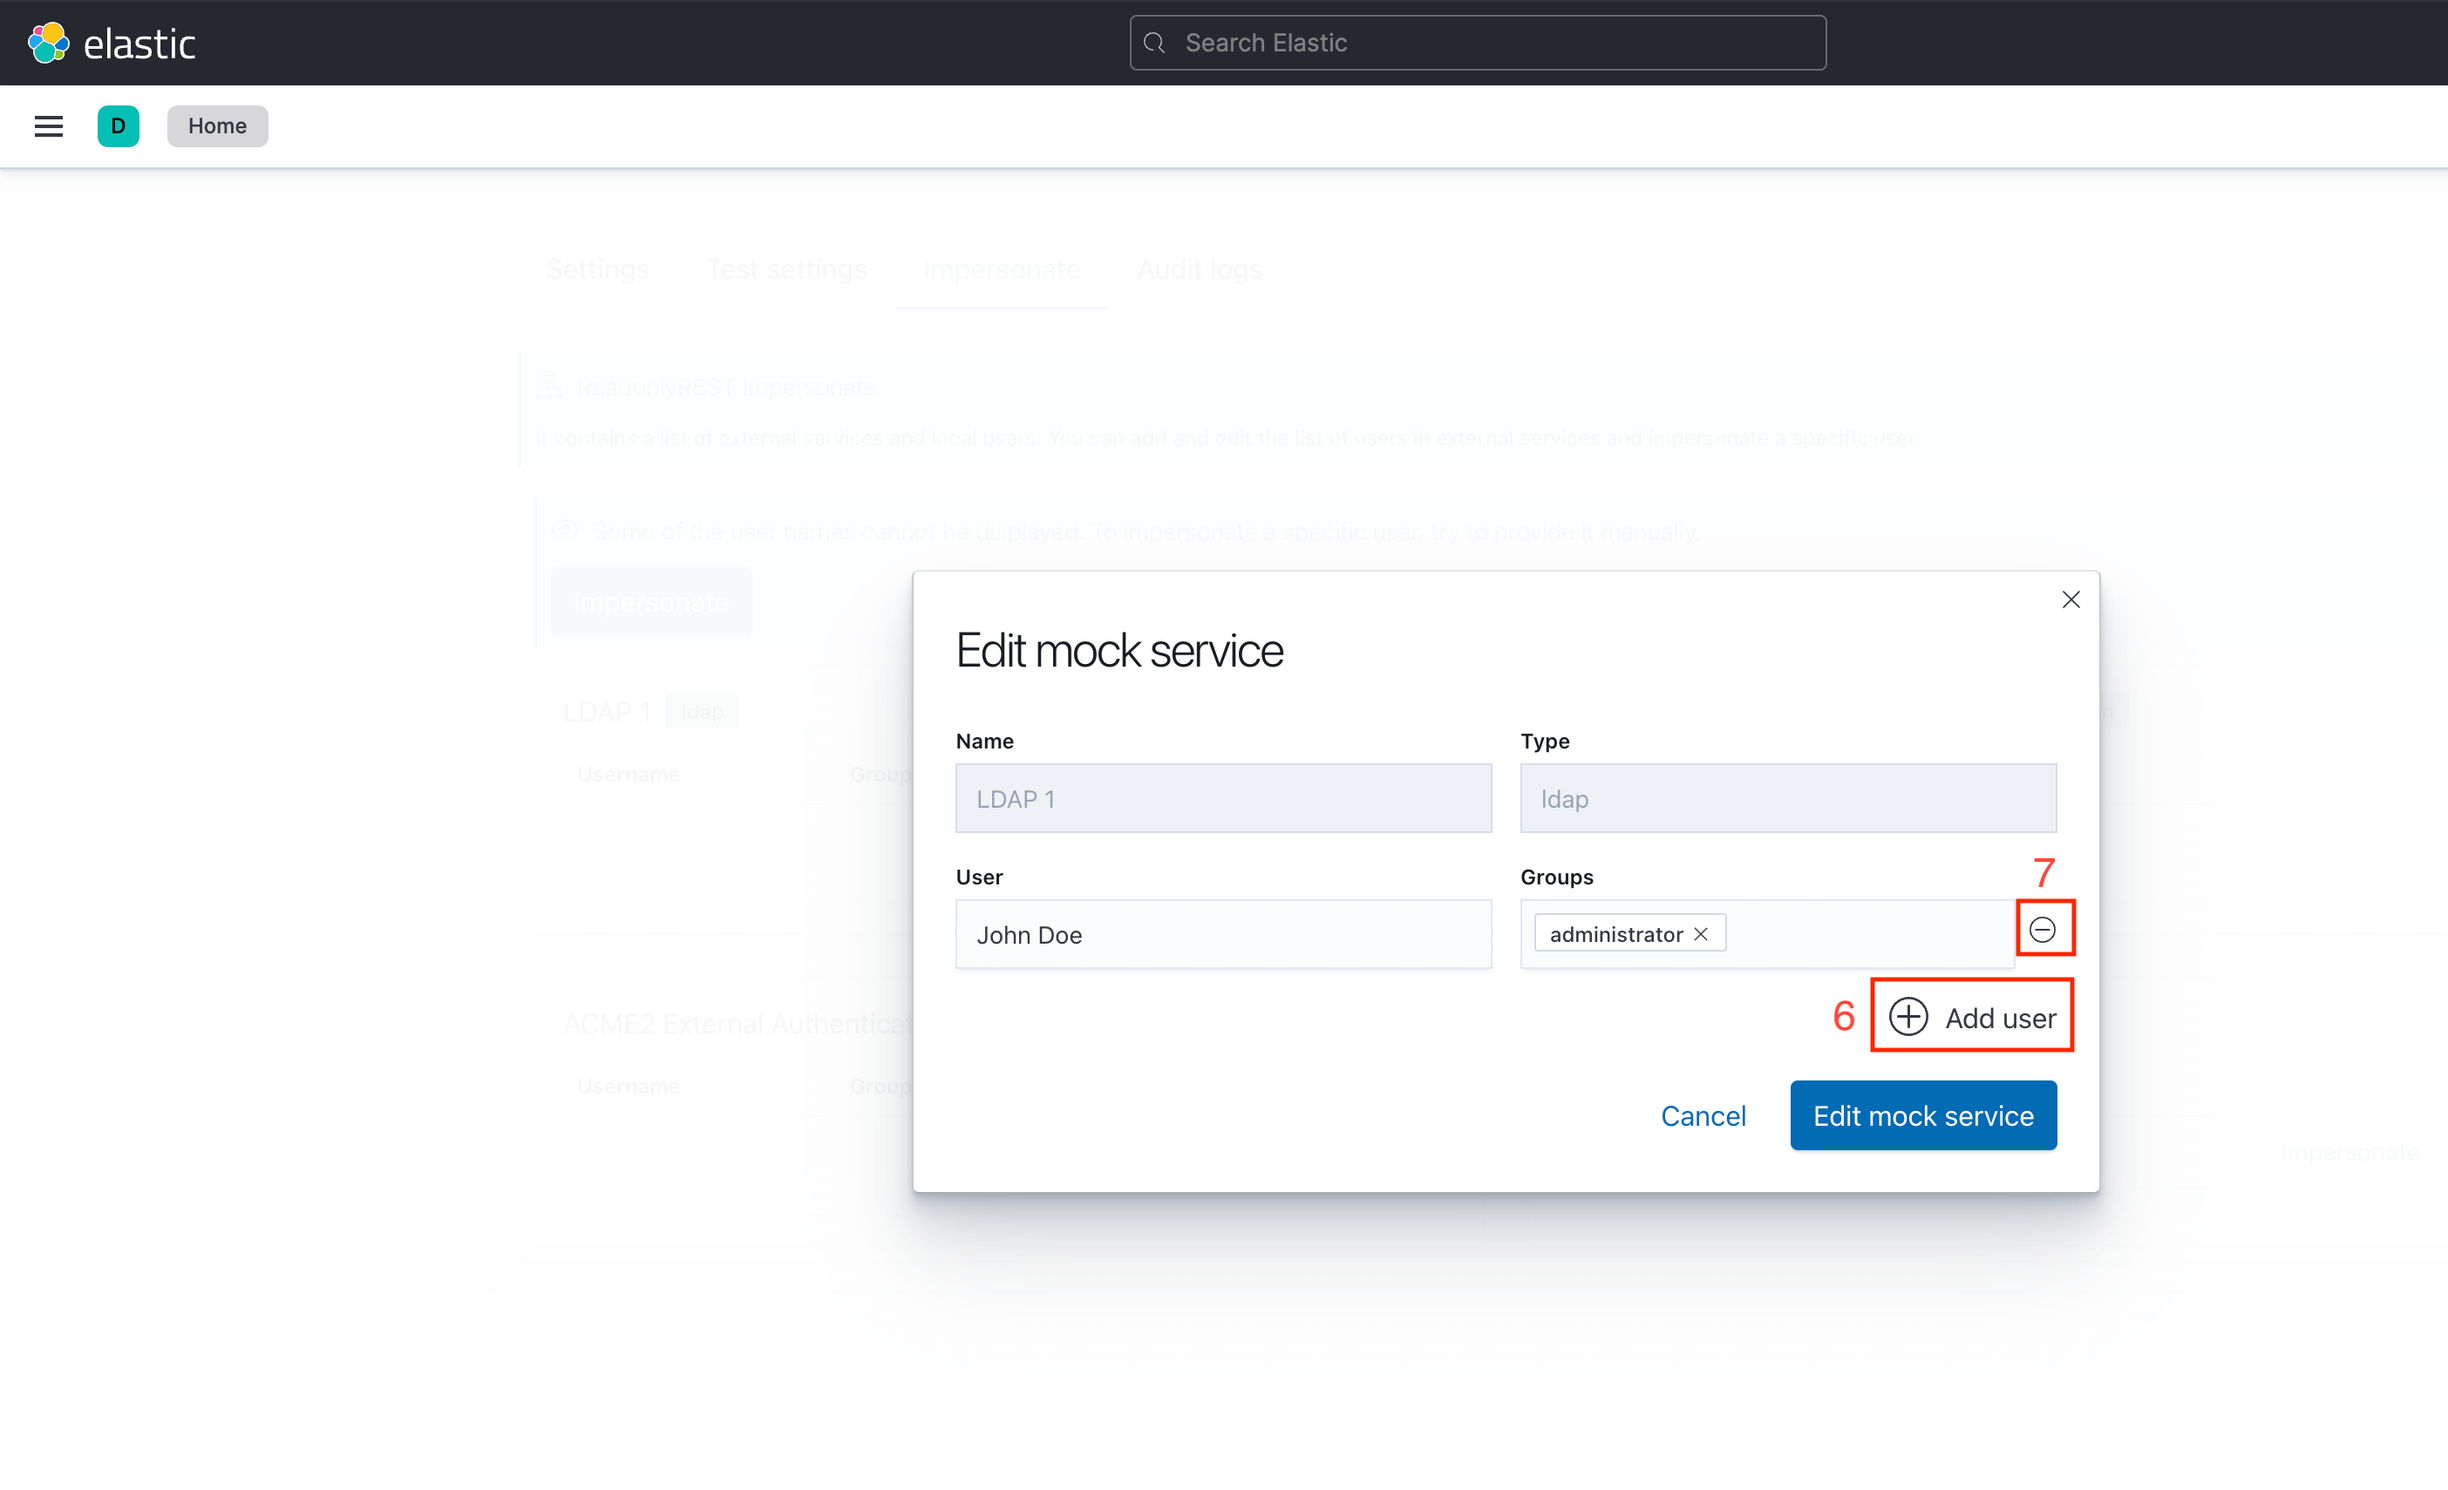
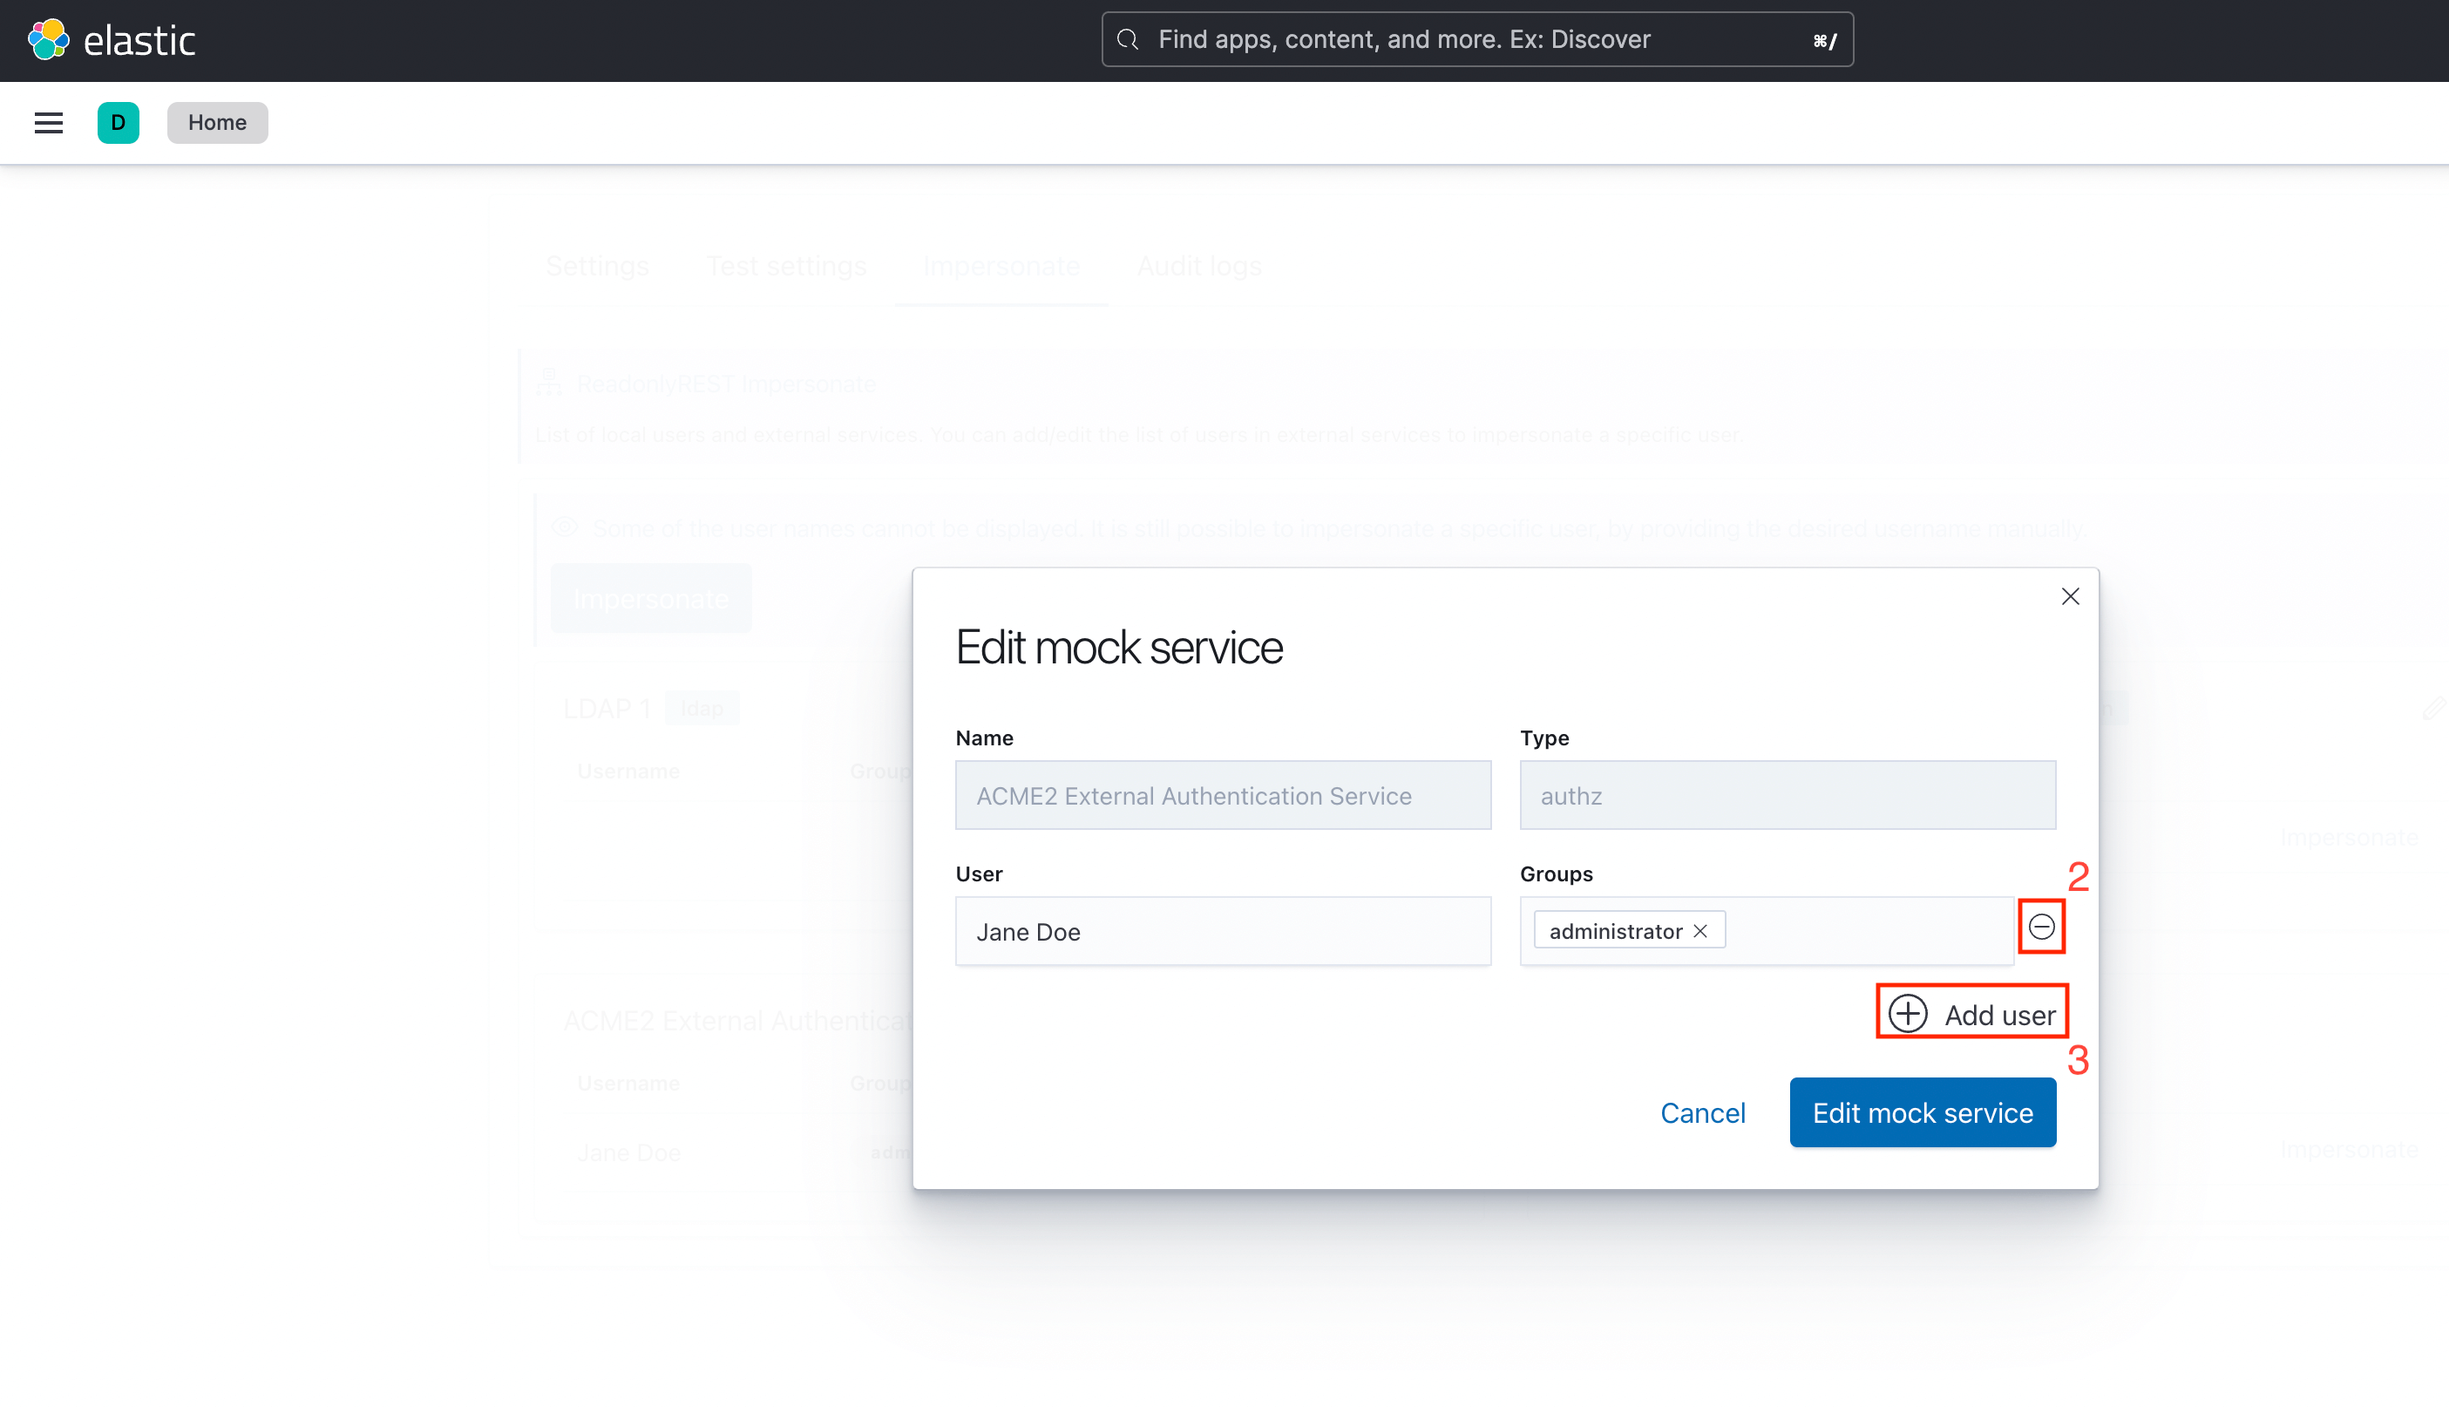
RORDEV-671 Update images

diff --git a/examples/impersonation/external-services-mocks-ui.md b/examples/impersonation/external-services-mocks-ui.md
@@ -4,8 +4,8 @@ External services mock is used to simulate the response of existing authenticati
 You don't need to create a user account for configuration testing.
 You will only need to define users (and their associated groups) that would normally be returned by the external services, listed in test settings.
 
-![Impersonate tab](<../../.gitbook/assets/impersonate_tab.png>)
+![Auth mock](<../../.gitbook/assets/auth_mock.png>)
 
-After clicking add/edit user buttons (5), you will see a dialog with an option to add (6) or remove (7) user from external service mock
+After clicking add/edit user buttons (1), you will see a dialog with an option to add (2) or remove (3) user from external service mock
 
 ![Add/edit external mock service](<../../.gitbook/assets/add_edit_auth_mock_service.png>)
